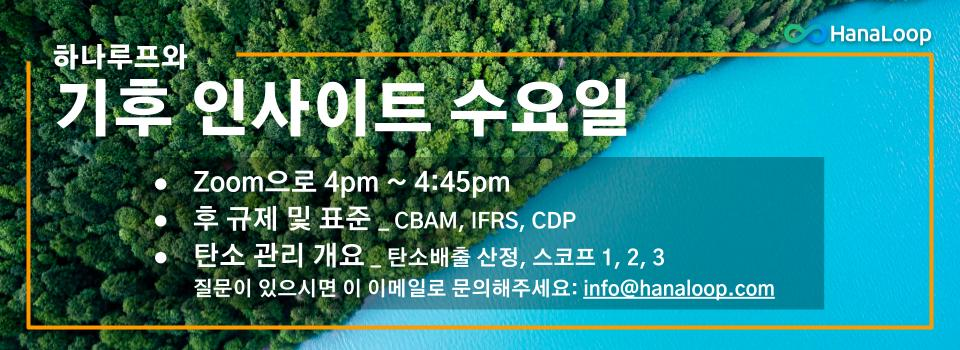
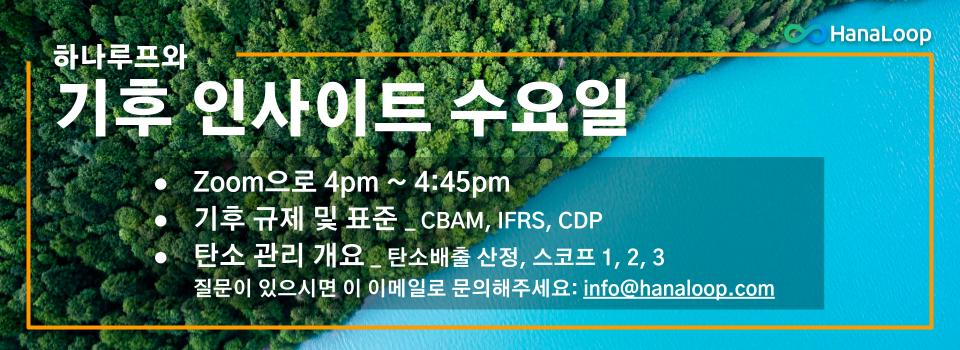
Update main page items

Changed region(s): [[0.1875, 0.5714, 0.625, 0.6571]]

diff --git a/pages/index.tsx b/pages/index.tsx
@@ -15,8 +15,8 @@ import { Tags } from '../components/Tags';
 // For HTML meta & SEO 
 const frontMatter = {
   title: `탄소중립 플랫폼 및 솔루션`,
-  description: "지속가능한 디지털 전환 Sustainable Digital Transformation과 친환경 탄소관리 온실가스관리 플랫폼",
-  keywords: "공급망 탄소 관리, 스코프3 관리, 온실가스 관리, 탄소 관리, 오염물질 관리, 탄소중립 플랫폼, GRI, SASB, TCFD, SBTi, IFRS, 기후 디지털 변환, 환경규제 대응, 환경규제대응 DT, 환경규제대응 디지털 전환, 온실가스 관리 솔루션, 탄소관리 솔루션, 오염물질 관리 솔루션, 탄소중립 전략, 넷제로 전략, 공급망 내 기업들 간 탄소데이터 교환, 공급망 내 기업들 간 탄소발자국 교환, 환경 플랫폼, 원스톱 탄소관리 플랫폼, 탄소 회계, Platform, HanaLoop, Sustainability, Digital Transformation, EcoLoop, hana.eco"
+  description: "기후규제 대응 탄소관리 온실가스관리 플랫폼. EU 탄소국경조정제도(CBAM, Carbon Border Adjustment Mechanism) 1차 보고서 작성",
+  keywords: "CBAM, 공급망 탄소 관리, 스코프3 관리, 온실가스 관리, 탄소 관리, 오염물질 관리, 탄소중립 플랫폼, GRI, SASB, TCFD, SBTi, IFRS, 기후 디지털 변환, 환경규제 대응, 환경규제대응 DT, 환경규제대응 디지털 전환, 온실가스 관리 솔루션, 탄소관리 솔루션, 탄소중립 전략, 넷제로 전략, 공급망 내 기업들 간 탄소데이터 교환, 공급망 내 기업들 간 탄소발자국 교환, 환경 플랫폼, 원스톱 탄소관리 플랫폼, 탄소 회계, Platform, HanaLoop, Sustainability, Digital Transformation, EcoLoop, hana.eco"
 }
 
 const MAX_DOCS = 4;
@@ -25,7 +25,7 @@ const docsSorted = docsCollection.sort((a, b) => b.meta.publishedAt.localeCompar
 // let announcement: any | undefined;
 const announcement = {
   initialOpen: true,
-  title: "2023년 12월 '하나루프와 기 인사이트 수일' 등록하기",
+  title: "2023년 12월 '하나루프와 기 인사이트 수요일' 등록하기",
   link: "https://docs.google.com/forms/d/e/1FAIpQLSev-ubKKT32aD-gqLHy0k56xyv-iBwiA5Z6jnMtqekdYmIcdA/viewform",
   image: "/images/blog/HanaLoop_climate_insight_wednesdays.jpg",
   dimensions: `w-[500px] md:w-[600px]`,
@@ -33,28 +33,36 @@ const announcement = {
 
 const elements: DisplayItem[] = [
   {
-    title: "데이터 수집, 산정, 분석",
-    subtitle: "Collect, Quantify and Analyze",
-    imageUrl: "/images/platform/eco_accounting.png",
+    title: "EU 탄소국경조정제도 (CBAM)",
+    subtitle: "Carbon Border Adjustment Mechanism",
+    imageUrl: "/images/platform/card-cbam_pic.jpeg",
     description: [
-      <span key="1"><b>수집에서 분석까지 배출활동 데이터 처리 간소화</b> - 기업의 활동으로 인해 발생하는 온실가스 배출활동 데이터 수집을 간편하게 하고, 배출량을 산정하고 모니터링하며 배출량 추이를 분석합니다.</span>,
-      <span key="2"><b>기후 데이터에서 얻는 실행 가능한 통찰력</b> - 인공지능 기반 데이터 분석 및 예측을 통해 의사 결정을 위한 통찰력을 얻을 수 있습니다.</span>] 
+      <span key="1"><b>제품 관리</b> - CBAM에 해당되는 CN코드 및 파라미터를 관리하고, 제품 내재배출 (원단위)을 산정합니다. (Embedded Emission).</span>,
+      <span key="2"><b>원부자재 공급 관리</b> - 공급사의 전구물질(Precursor) SEE를 관리합니다.</span>,
+      <span key="3"><b>CBAM 보고서 내용</b> - 2024년 1월부터 분기별로 제출해야할 데이터를 체계적으로 관리하며 쉽게 보고합니다.</span>,
+      <span key="3"><b>배출계수 관리</b> - 기본값(Default values)을 관리합니다.</span>
+    ]
   },
   {
-    title: "전략",
-    subtitle: "Devise strategies",
-    imageUrl: "/images/platform/eco_strategy.png",
+    title: "IFRS(TCFD) / CDP / GRI",
+    subtitle: "Climate normatives, frameworks and standards",
+    imageUrl: "/images/platform/card-standards_pic.jpeg",
     description: [
-      <span key="1"><b>기후 탄력적인 전략을 수립하고 이행하기 위한 협력</b> - 에너지 효율 향상, 배출권거래제 대응, 공급망 포함 탄소감축 목표와 전략 수립 및 이행, 각종 공시요구 대응 등을 탄력적으로 실행할 수 있습니다.</span>,
-      <span key="2"><b>기후요소를 근거로 현명한 비즈니스 의사 결정이 가능해집니다.</b></span>] 
+      <span key="1"><b>표준 보고서에서 요구되는 리포팅</b> - 사업장 별, Scope 1, 2, 3별 에너지 사용량 등 데이터를 체계적으로 관리합니다.</span>,
+      <span key="2"><b>리스크 관리</b> - IFRS/TCFD에서 권장하는 리스크 관리가 용이합니다.</span>,
+      <span key="3"><b>시나리오 분석</b> - 배출원의 변경에 대해 What-if 시나리오 분석으로 전략적으로 기후리스크를 관리하고 준비할 수 있습니다.</span>
+    ] 
   },
   {
-    title: "임팩트",
+    title: "ESG & 스코프 3 관리",
     subtitle: "Make impact",
-    imageUrl: "/images/platform/eco_impact.png",
+    imageUrl: "/images/platform/card-scope3_pic.jpeg",
     description: [
-      <span key="1"><b>탈탄소화 임팩트 네트워크 형성</b> - 산업별 탄소감축 방법과 결과를 분석하고, 그 임팩트를 공유함으로써 기업 간 탈탄소화 네트워크를 형성하며, 임팩트를 증대시킬 수 있습니다.</span>,
-      <span key="2"><b>친환경 사업 모델 개발</b> - 비즈니스 효율성을 높이는 동시에 기후 친화적인 비즈니스 모델 개발을 통해 친환경 산업으로의 전환을 이끌 수 있습니다.</span>] 
+      <span key="1"><b>정성적인 데이터 관리</b> - 질문에 응답하는 형태의 정성적인 데이터 관리가 가능해집니다.</span>,
+      <span key="2"><b>협력사 관리</b> - Scope 3에 해당되는 공급자들의 탄소 배출 현황을 안전하게 관리할 수 있습니다.</span>,
+      <span key="3"><b>제품 관리</b> - 제품의 원단위를 파악하여 고객사와의 커뮤니케이션에 능동적으로 참여할 수 있습니다.</span>,
+      <span key="4"><b>Scope 3용 산업 표준 배출계수</b> - 실 데이터가 없을 경우에도 배출량 산정이 가능합니다.</span>,
+    ] 
   },
 ]
 
@@ -111,7 +119,7 @@ const reasons: DisplayItem[] = [
   { 
     // Material icon
     icon: <svg className="w-6 h-6" viewBox="0 0 24 24" fill="currentColor" xmlns="http://www.w3.org/2000/svg" ><g><rect fill="none" height="24" width="24"/></g><g><g><circle cx="12" cy="6" r="2"/><path d="M21,16v-2c-2.24,0-4.16-0.96-5.6-2.68l-1.34-1.6C13.68,9.26,13.12,9,12.53,9h-1.05c-0.59,0-1.15,0.26-1.53,0.72l-1.34,1.6 C7.16,13.04,5.24,14,3,14v2c2.77,0,5.19-1.17,7-3.25V15l-3.88,1.55C5.45,16.82,5,17.48,5,18.21C5,19.2,5.8,20,6.79,20H9v-0.5 c0-1.38,1.12-2.5,2.5-2.5h3c0.28,0,0.5,0.22,0.5,0.5S14.78,18,14.5,18h-3c-0.83,0-1.5,0.67-1.5,1.5V20h7.21 C18.2,20,19,19.2,19,18.21c0-0.73-0.45-1.39-1.12-1.66L14,15v-2.25C15.81,14.83,18.23,16,21,16z"/></g></g></svg>,
-    title: '구매자와 소비자의 요구'
+    title: '고객사와 소비자의 요구'
   },
 ]
 
@@ -176,8 +184,8 @@ const Home: NextPage = () => {
       <Hero background={{
           imageUrl: contextualPath(siteConfig, '/images/bg-hero_jungle_coast.jpg'),
         }} 
-        header="맞춤형 탄소관리 플랫폼"
-        tagline="스코프 1, 2, 3 기업의 니즈에 맞추어 탄소 중립의 여정을 함께합니다."
+        header="기후규제 대응 탄소관리 솔루션"
+        tagline="CBAM 보고서 함께 작성해드립니다."
         button={
           {href: '/demo_request', label: '데모 요청'}
         }
@@ -265,7 +273,7 @@ const Home: NextPage = () => {
                   </div>
                 </div>
                 <div className="flex-1 p-4">
-                  {item.imageUrl && <Image className="object-cover object-top h-40 w-full border group-hover:border-gray-300" src={item.imageUrl} alt={item.title} />}
+                  {item.imageUrl && <Image className="object-cover object-top h-60 w-full border group-hover:border-gray-300" src={item.imageUrl} alt={item.title} />}
                 </div>
               </div>)
             })